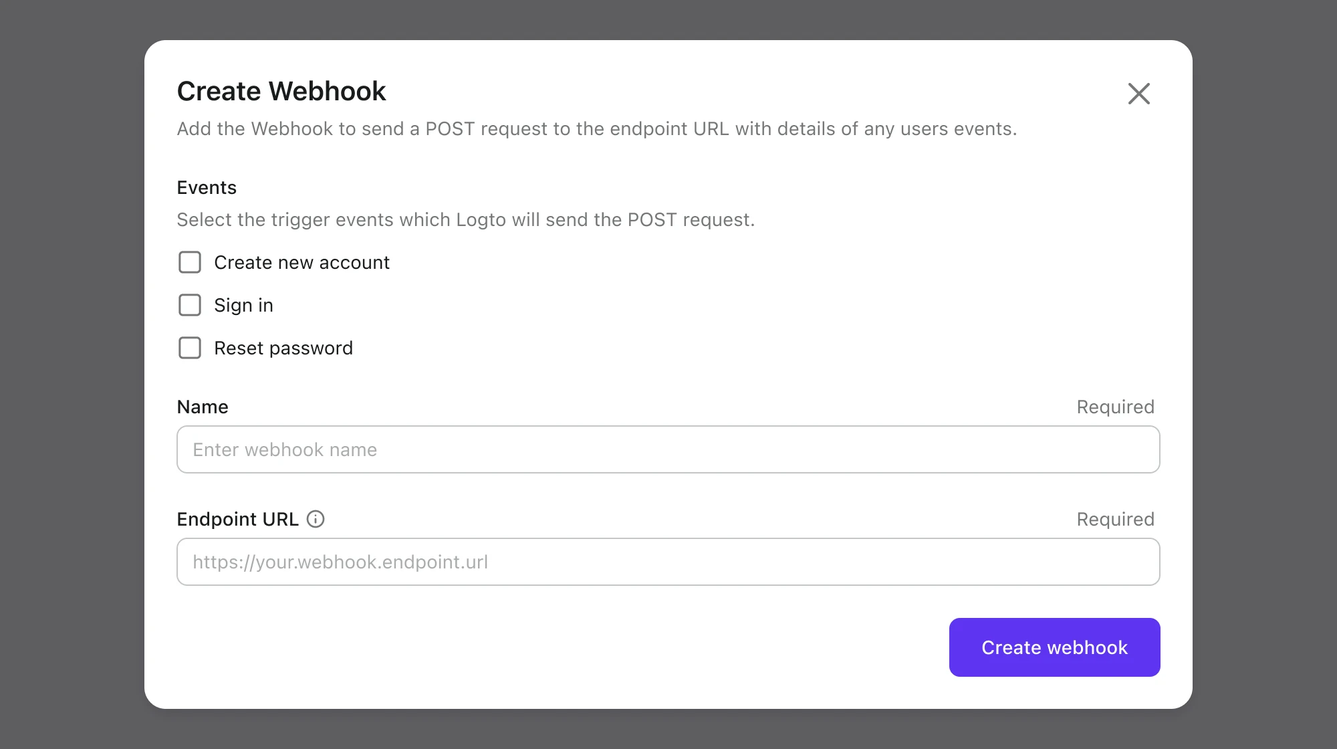
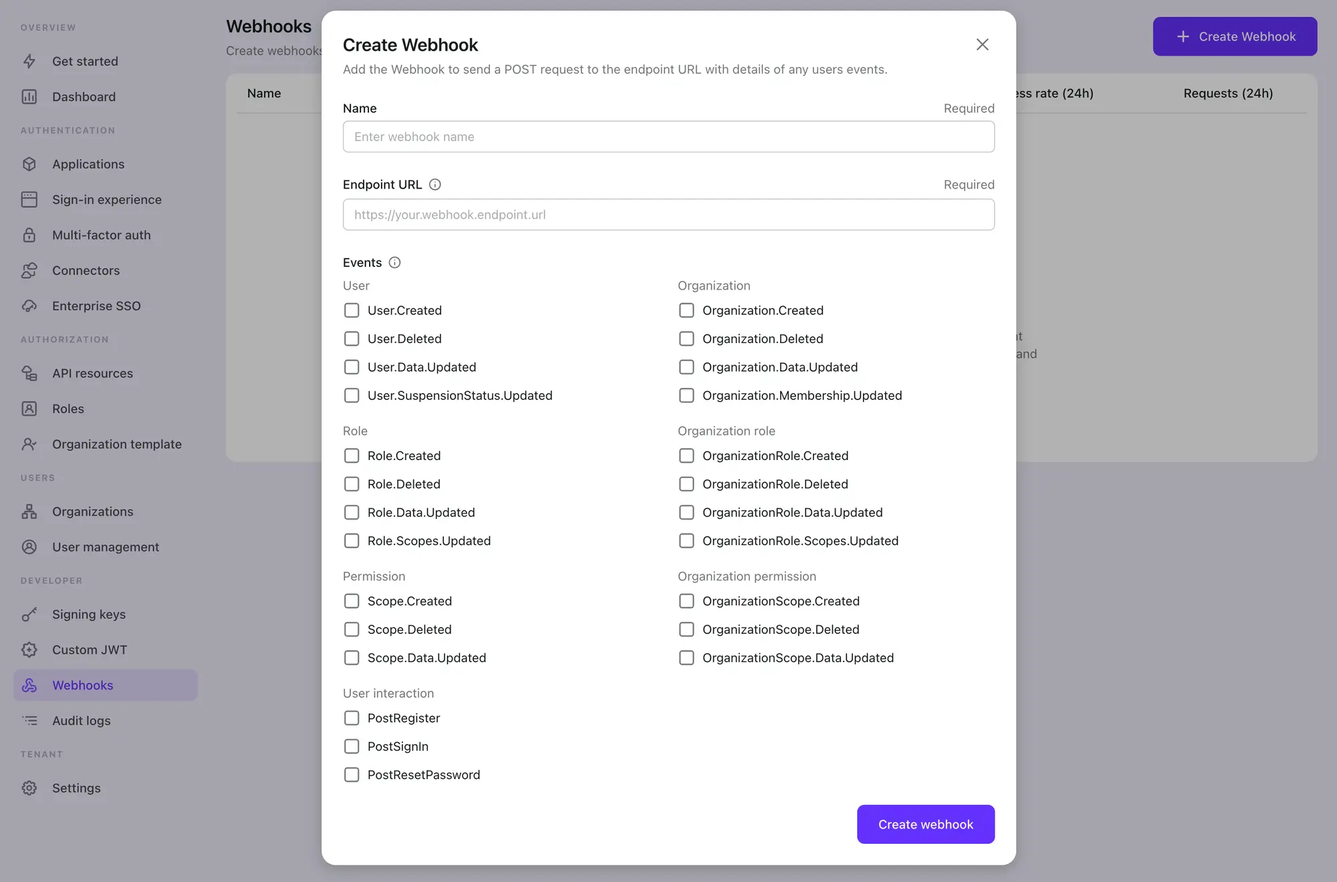
feat: update the webhook docs
update the webhook docs

diff --git a/docs/docs/recipes/webhooks/webhook-request.md b/docs/docs/recipes/webhooks/webhook-request.md
@@ -1,61 +1,208 @@
 ---
-sidebar_position: 3
+sidebar_position: 4
 ---
 
 import Availability from '@components/Availability';
 
 # Webhook request
 
-<Availability cloud oss={{ major: 1, minor: 5 }} />
-
 Once a valid hook event is emitted, Logto will find corresponding webhooks and send a POST request per hook config.
 
 ## Request headers
 
-| Key                     | Customizable | Notes                                                                                             |
-| :---------------------- | :----------- | :------------------------------------------------------------------------------------------------ |
-| user-agent              | ✅           | `Logto (https://logto.io/)` by default                                                            |
-| content-type            | ✅           | `application/json` by default                                                                     |
-| logto-signature-sha-256 |              | the signature of the request body, refer to [Securing your webhooks](./securing-your-webhooks.md) |
+| Key                     | Customizable | Notes                                                                                              |
+| :---------------------- | :----------- | :------------------------------------------------------------------------------------------------- |
+| user-agent              | ✅           | `Logto (https://logto.io/)` by default.                                                            |
+| content-type            | ✅           | `application/json` by default.                                                                     |
+| logto-signature-sha-256 |              | the signature of the request body, refer to [Securing your webhooks](./securing-your-webhooks.md). |
 
 You can overwrite customizable headers by [customizing request](./configure-webhooks-in-console.md#secure-webhook) headers with the same key.
 
-## Request body
+## Interaction hook events request body
 
-| Field       | Type                | Optional | Notes                                                             |
-| :---------- | :------------------ | :------- | :---------------------------------------------------------------- |
-| hookId      | `string`            |          | the identifier in Logto                                           |
-| event       | `string`            |          | which event that triggers this hook                               |
-| createdAt   | `string`            |          | the create time of payload in ISO format                          |
-| sessionId   | `string`            | ✅       | the Session ID (not Interaction ID) for this event, if applicable |
-| userAgent   | `string`            | ✅       | the user-agent for the request that triggers this hook            |
-| userId      | `string`            | ✅       | the related User ID for this event, if applicable                 |
-| user        | `UserEntity`        | ✅       | the related user entity for this event, if applicable             |
-| application | `ApplicationEntity` | ✅       | the related application info for this event, if applicable        |
+<Availability cloud oss={{ major: 1, minor: 5 }} />
 
-`UserEntity` includes the following fields from user data:
+available events: `PostRegister`, `PostSignIn`, `PostResetPassword`;
 
-| Field         | Type      | Optional |
-| :------------ | :-------- | :------- |
-| id            | `string`  |          |
-| username      | `string`  | ✅       |
-| primaryEmail  | `string`  | ✅       |
-| primaryPhone  | `string`  | ✅       |
-| name          | `string`  | ✅       |
-| avatar        | `string`  | ✅       |
-| customData    | `object`  |          |
-| identities    | `object`  |          |
-| lastSignInAt  | `string`  |          |
-| createdAt     | `string`  |          |
-| applicationId | `string`  | ✅       |
-| isSuspended   | `boolean` | ✅       |
+The request body is a JSON object that contains three types of data field:
 
-`ApplicationEntity` includes the following fields from application data:
+```ts
+type UserEntity = {
+  id: string;
+  username?: string;
+  primaryEmail?: string;
+  primaryPhone?: string;
+  name?: string;
+  avatar?: string;
+  customData?: object;
+  identities?: object;
+  lastSignInAt?: string;
+  createdAt?: string;
+  applicationId?: string;
+  isSuspended?: boolean;
+};
+```
 
-| Field       | Type     | Optional |
-| :---------- | :------- | :------- |
-| id          | `string` |          |
-| name        | `string` |          |
-| description | `string` | ✅       |
+```ts
+type ApplicationEntity = {
+  id: string;
+  name: string;
+  description?: string;
+};
+```
+
+| Field            | Type                | Optional | Notes                                                              |
+| ---------------- | ------------------- | -------- | ------------------------------------------------------------------ |
+| hookId           | `string`            |          | The identifier in Logto.                                           |
+| event            | `string`            |          | Which event that triggers this hook.                               |
+| createdAt        | `string`            |          | The create time of payload in ISO format.                          |
+| interactionEvent | `string`            |          | The interaction event that triggers this hook.                     |
+| sessionId        | `string`            | ✅       | The Session ID (not Interaction ID) for this event, if applicable. |
+| userAgent        | `string`            | ✅       | The user-agent for the request that triggers this hook.            |
+| userIp           | `string`            | ✅       | The IP address for the request that triggers this hook.            |
+| userId           | `string`            | ✅       | The related User ID for this event, if applicable.                 |
+| user             | `UserEntity`        | ✅       | The related user entity for this event, if applicable.             |
+| applicationId    | `string`            | ✅       | The related Application ID for this event, if applicable.          |
+| application      | `ApplicationEntity` | ✅       | The related application info for this event, if applicable.        |
 
 See [Users](/docs/references/users/) and [Applications](/docs/references/applications/) reference for detailed field explanations.
+
+## Data mutation hook events request body
+
+<Availability cloud oss={{ major: 1, minor: 17 }} />
+
+### Standard request body fields
+
+| Field     | Type     | Optional | Notes                                     |
+| --------- | -------- | -------- | ----------------------------------------- |
+| hookId    | `string` |          | The identifier in Logto.                  |
+| event     | `string` |          | Which event that triggers this hook.      |
+| createdAt | `string` |          | The create time of payload in ISO format. |
+| userAgent | `string` | ✅       | The user-agent for the request.           |
+| ip        | `string` | ✅       | The IP address for the request.           |
+
+### Interaction API context body fields
+
+Data mutation hook events that are triggered by user interaction API calls.
+
+Available events: `User.Created`, `User.Data.Updated`,
+
+| Field            | Type                | Optional | Notes                                                              |
+| ---------------- | ------------------- | -------- | ------------------------------------------------------------------ |
+| interactionEvent | `string`            | ✅       | The interaction event that triggers this hook.                     |
+| sessionId        | `string`            | ✅       | The Session ID (not Interaction ID) for this event, if applicable. |
+| applicationId    | `string`            | ✅       | The related Application ID for this event, if applicable.          |
+| application      | `ApplicationEntity` | ✅       | The related application info for this event, if applicable.        |
+
+### Management API context body fields
+
+Data mutation hook events that are triggered by management API calls.
+
+| Field        | Type     | Optional | Notes                                                                                                                  |
+| ------------ | -------- | -------- | ---------------------------------------------------------------------------------------------------------------------- |
+| path         | `string` | ✅       | The path of the API call that triggers this hook.                                                                      |
+| method       | `string` | ✅       | The method of the API call that triggers this hook.                                                                    |
+| status       | `number` | ✅       | The response status code of the API call that triggers this hook.                                                      |
+| params       | `object` | ✅       | The request koa path params of the API call that triggers this hook.                                                   |
+| matchedRoute | `string` | ✅       | The koa matched route of the API call that triggers this hook. Logto uses this field to match the enabled hook events. |
+
+### Data payload body fields
+
+#### User events
+
+| Event             | Field | Type       | Optional | Notes                                   |
+| ----------------- | ----- | ---------- | -------- | --------------------------------------- |
+| User.Created      | data  | UserEntity |          | The created user entity for this event. |
+| User.Data.Updated | data  | UserEntity |          | The updated user entity for this event. |
+| User.Deleted      | data  | null       | /        |                                         |
+
+#### Role events
+
+```ts
+type Role = {
+  id: string;
+  name: string;
+  description: string;
+  type: 'User' | 'MachineToMachine';
+  isDefault: boolean;
+};
+```
+
+```ts
+type Scope = {
+  id: string;
+  name: string;
+  description: string;
+  resourceId: string;
+  createdAt: number;
+};
+```
+
+| Event              | Field  | Type    | Optional | Notes                                                                                                                              |
+| ------------------ | ------ | ------- | -------- | ---------------------------------------------------------------------------------------------------------------------------------- |
+| Role.Created       | data   | Role    |          | The created role entity for this event.                                                                                            |
+| Role.Data.Updated  | data   | Role    |          | The updated role entity for this event.                                                                                            |
+| Role.Deleted       | data   | null    |          |                                                                                                                                    |
+| Role.Scope.Updated | data   | Scope[] |          | The updated scopes assigned to the role.                                                                                           |
+| Role.Scope.Updated | roleId | string  | ✅       | The role ID that scopes are assigned to. (Only available when the event was triggered by create new role with pre-assigned scopes) |
+
+#### Permission(Scope) events
+
+| Event              | Field | Type  | Optional | Notes                                    |
+| ------------------ | ----- | ----- | -------- | ---------------------------------------- |
+| Scope.Created      | data  | Scope |          | The created scope entity for this event. |
+| Scope.Data.Updated | data  | Scope |          | The updated scope entity for this event. |
+| Scope.Deleted      | data  | null  | /        |                                          |
+
+#### Organization events
+
+```ts
+type Organization = {
+  id: string;
+  name: string;
+  description?: string;
+  customData: object;
+  createdAt: number;
+};
+```
+
+| Event                           | Field | Type         | Optional | Notes                                           |
+| ------------------------------- | ----- | ------------ | -------- | ----------------------------------------------- |
+| Organization.Created            | data  | Organization |          | The created organization entity for this event. |
+| Organization.Data.Updated       | data  | Organization |          | The updated organization entity for this event. |
+| Organization.Deleted            | data  | null         | /        |                                                 |
+| Organization.Membership.Updated | data  | null         | /        |                                                 |
+
+#### OrganizationRole events
+
+```ts
+type OrganizationRole = {
+  id: string;
+  name: string;
+  description?: string;
+};
+```
+
+```ts
+type OrganizationScope = {
+  id: string;
+  name: string;
+  description?: string;
+};
+```
+
+| Event                          | Field              | Type             | Optional | Notes                                                                                                                              |
+| ------------------------------ | ------------------ | ---------------- | -------- | ---------------------------------------------------------------------------------------------------------------------------------- |
+| OrganizationRole.Created       | data               | OrganizationRole |          | The created organization role entity for this event.                                                                               |
+| OrganizationRole.Data.Updated  | data               | OrganizationRole |          | The updated organization role entity for this event.                                                                               |
+| OrganizationRole.Deleted       | data               | null             | /        |                                                                                                                                    |
+| OrganizationRole.Scope.Updated | data               | null             | /        |                                                                                                                                    |
+| OrganizationRole.Scope.Updated | organizationRoleId | string           | ✅       | The role ID that scopes are assigned to. (Only available when the event was triggered by create new role with pre-assigned scopes) |
+
+#### Organization permission(OrganizationScope) events
+
+| Event                          | Field | Type              | Optional | Notes                                  |
+| ------------------------------ | ----- | ----------------- | -------- | -------------------------------------- |
+| OrganizationScope.Created      | data  | OrganizationScope |          | The created organization scope entity. |
+| OrganizationScope.Data.Updated | data  | OrganizationScope |          | The updated organization scope entity. |
+| OrganizationScope.Deleted      | data  | null              | /        |                                        |

diff --git a/docs/docs/recipes/webhooks/webhook-events.md b/docs/docs/recipes/webhooks/webhook-events.md
@@ -1,0 +1,75 @@
+---
+sidebar_position: 3
+---
+
+import Availability from '@components/Availability';
+
+# Webhook events
+
+This guide list the different Logto webhook events and explains when each event occurs.
+
+## User interaction hook events
+
+<Availability cloud oss={{ major: 1, minor: 5 }} />
+
+| Event type        | Description                                                                 |
+| ----------------- | --------------------------------------------------------------------------- |
+| PostRegister      | A user successfully creates a new account via the UI interface.             |
+| PostSignIn        | A user successfully signs in via the UI interface.                          |
+| PostResetPassword | A user’s password is successfully reset through the “Forgot password” flow. |
+
+## Data mutation hook events
+
+<Availability cloud oss={{ major: 1, minor: 17 }} />
+
+### User
+
+| Event type                    | Description                                                                             |
+| ----------------------------- | --------------------------------------------------------------------------------------- |
+| User.Created                  | A new user account is created.                                                          |
+| User.Deleted                  | A user account is deleted.                                                              |
+| User.Data.Updated             | User profile data is updated, e.g., email, avatar, custom.data, social identifier, etc. |
+| User.SuspensionStatus.Updated | User suspension status is changed (suspended or reactivated).                           |
+
+### Role
+
+| Event type          | Description                                                                      |
+| ------------------- | -------------------------------------------------------------------------------- |
+| Role.Created        | A new role is created.                                                           |
+| Role.Deleted        | A role is deleted.                                                               |
+| Role.Data.Updated   | A role’s data is updated, e.g., role name, description, and default role status. |
+| Role.Scopes.Updated | Permissions assigned to a role are added or removed.                             |
+
+### Permission (Scope)
+
+| Event type         | Description                                                        |
+| ------------------ | ------------------------------------------------------------------ |
+| Scope.Created      | A new API permission is created.                                   |
+| Scope.Deleted      | An API permission is deleted.                                      |
+| Scope.Data.Updated | An API permission’s data is updated, e.g., permission description. |
+
+### Organization
+
+| Event type                      | Description                                                                                |
+| ------------------------------- | ------------------------------------------------------------------------------------------ |
+| Organization.Created            | A new organization is created.                                                             |
+| Organization.Deleted            | An organization is deleted.                                                                |
+| Organization.Data.Updated       | An organization’s data is updated, e.g., organization name, description, custom.data, etc. |
+| Organization.Membership.Updated | Members are added or removed from an organization.                                         |
+
+### Organization role
+
+| Event type                      | Description                                                                           |
+| ------------------------------- | ------------------------------------------------------------------------------------- |
+| OrganizationRole.Created        | A new organization role is created.                                                   |
+| OrganizationRole.Deleted        | An organization role is deleted                                                       |
+| OrganizationRole.Data.Updated   | An organization role’s data is updated, e.g., organization role name and description. |
+| OrganizationRole.Scopes.Updated | Permissions assigned to an organization role are added or removed.                    |
+
+### Organization permission (scope)
+
+| Event type                     | Description                                                                             |
+| ------------------------------ | --------------------------------------------------------------------------------------- |
+| OrganizationScope.Created      | A new organization permission is created.                                               |
+| OrganizationScope.Deleted      | A organization permission is deleted.                                                   |
+| OrganizationScope.Data.Updated | A organization permission’s data is updated, e.g., organization permission description. |

diff --git a/docs/docs/recipes/webhooks/configure-webhooks-in-console.md b/docs/docs/recipes/webhooks/configure-webhooks-in-console.md
@@ -22,12 +22,12 @@ Firstly, create a webhook endpoint that will be called by the Logto Agent. This 
 To create a new webhook in the Logto Console, follow these steps:
 
 1. Navigate to the "Webhook" tab and click on the "Create Webhook" button.
-2. **Event**
-   In the modal that appears, select the desired events that will trigger this webhook. It is recommended to choose a smaller number of events that meet your requirements to avoid overwhelming the server reception. You can change the selected events at any time after creating the webhook.
-3. **Name**
+2. **Name**
    Provide a name for the webhook. This name is for your own reference to define the usage scenario.
-4. **Endpoint URL**
+3. **Endpoint URL**
    Enter the Endpoint URL, which is the URL of your server that will receive the webhook POST requests when the event occurs. For security reasons, the URL must be publicly accessible via HTTPS and should not be a local host URL. Your server should respond to the Logto webhook requests with an HTTP 200 ("OK") response.
+4. **Event**
+   In the modal that appears, select the desired events that will trigger this webhook. It is recommended to choose a smaller number of events that meet your requirements to avoid overwhelming the server reception. You can change the selected events at any time after creating the webhook.
 5. **Disable / Reactive**
    By default, the webhook is activated immediately after creation. If you want to suspend the webhook temporarily, you can disable or reactivate it using the "Three-Dots" menu located in the top-right corner of the header after creating it.
 
@@ -37,9 +37,9 @@ To create a new webhook in the Logto Console, follow these steps:
 
 After creating a new webhook, you have options to enhance its security:
 
-- **Signing Key**
+- **Signing key**
   Logto generates a unique hash signature, known as the Signing Key, for each webhook. You can include this key as a request header in your endpoint implementation. Verifying the signing key ensures that the webhook payload originates from Logto and has not been tampered with by unauthorized sources. Read [Securing your webhooks](./securing-your-webhooks.md) to learn more about the code.
-- **Custom Header**
+- **Custom header**
   You have the option to include custom headers in the webhook payload to provide additional context or metadata. This feature allows you to add relevant information that can assist in processing the webhook data effectively.
 
 By utilizing the Signing Key and considering the inclusion of Custom Headers, you can enhance the security of your webhooks and ensure the integrity and authenticity of the received payloads.
@@ -56,17 +56,17 @@ This test ensures that your webhook is properly set up to receive and process pa
 
 Logto provides convenient tools to monitor the health status of your webhooks and investigate any potential issues in detail:
 
-- **Health Status**  
+- **Health status**  
    The webhook list in Logto displays the health status of each webhook, including the success rate and total number of requests made in the past 24 hours. This information gives you an overview of the webhook's performance.
 
   ![Webhook list](./assets/list-webhook.webp)
 
-- **Independent Request Logs**  
+- **Independent request logs**  
    In the "Recent Requests" section of each webhook, you can access the request logs for the past 24 hours. Each request is logged individually, allowing you to view the details of each request and investigate any potential errors or anomalies.
 
   ![Webhook logs](./assets/webhook-logs.webp)
 
-- **Auto-Retry**  
+- **Auto-retry**  
    In the event of a failed delivery (when the webhook response status is greater than or equal to 500), Logto automatically retries the delivery up to three times. Rest assured that multiple retries of the same request will only generate a single log entry, avoiding unnecessary duplication.
 
 By leveraging these monitoring features, you can effectively track the health of your webhooks, examine request logs, and ensure the reliability and performance of your webhook integrations.

diff --git a/docs/docs/recipes/webhooks/README.md b/docs/docs/recipes/webhooks/README.md
@@ -8,7 +8,7 @@ import Availability from '@components/Availability';
 
 <Availability cloud oss={{ major: 1, minor: 5 }} />
 
-Logto Webhook enables you to effortlessly receive real-time updates regarding specific events, such as user registration, sign-in, or password reset. You no longer need to continuously poll for updates.
+Logto Webhooks provide real-time notifications for various events, including changes to user account, role, permission, organization, organization role, organization permission, and user interaction.
 
 When an event is triggered, Logto sends an HTTP request to the Endpoint URL you provide, containing detailed information about the event, such as user ID, username, email, and other relevant details (for more about the data included in the payload and header, refer to [Webhook request](./webhook-request.md)). Your application can process this request and take customized actions, like sending an email or updating a database.
 
@@ -30,7 +30,7 @@ Here are some examples of common usage scenarios for CIAM:
 
 | Item    | Description                                                                                                                                                                                                                                                |
 | :------ | :--------------------------------------------------------------------------------------------------------------------------------------------------------------------------------------------------------------------------------------------------------- |
-| Event   | When a specific action is done, it will trigger a hook event with a specific type. E.g., Logto will emit a PostSignUp hook event when the user finished the sign-up process and created a new account.                                                     |
+| Event   | When a specific action is done, it will trigger a hook event with a specific type. E.g., Logto will emit a PostRegister hook event when the user finished the sign-up process and created a new account.                                                   |
 | Hook    | A single or series of actions that hook to a specific event. Action can be calling API, executing code snippets, etc.                                                                                                                                      |
 | Webhook | A subtype of hook that indicates calling an API with the event payload.<br/>Say a developer wants to send a notification when user signs in via a new device, the developer can add a webhook that calls his security service API to the PostSignIn event. |
 

diff --git a/docs/docs/recipes/webhooks/securing-your-webhooks.md b/docs/docs/recipes/webhooks/securing-your-webhooks.md
@@ -1,5 +1,5 @@
 ---
-sidebar_position: 4
+sidebar_position: 5
 ---
 
 import Availability from '@components/Availability';
